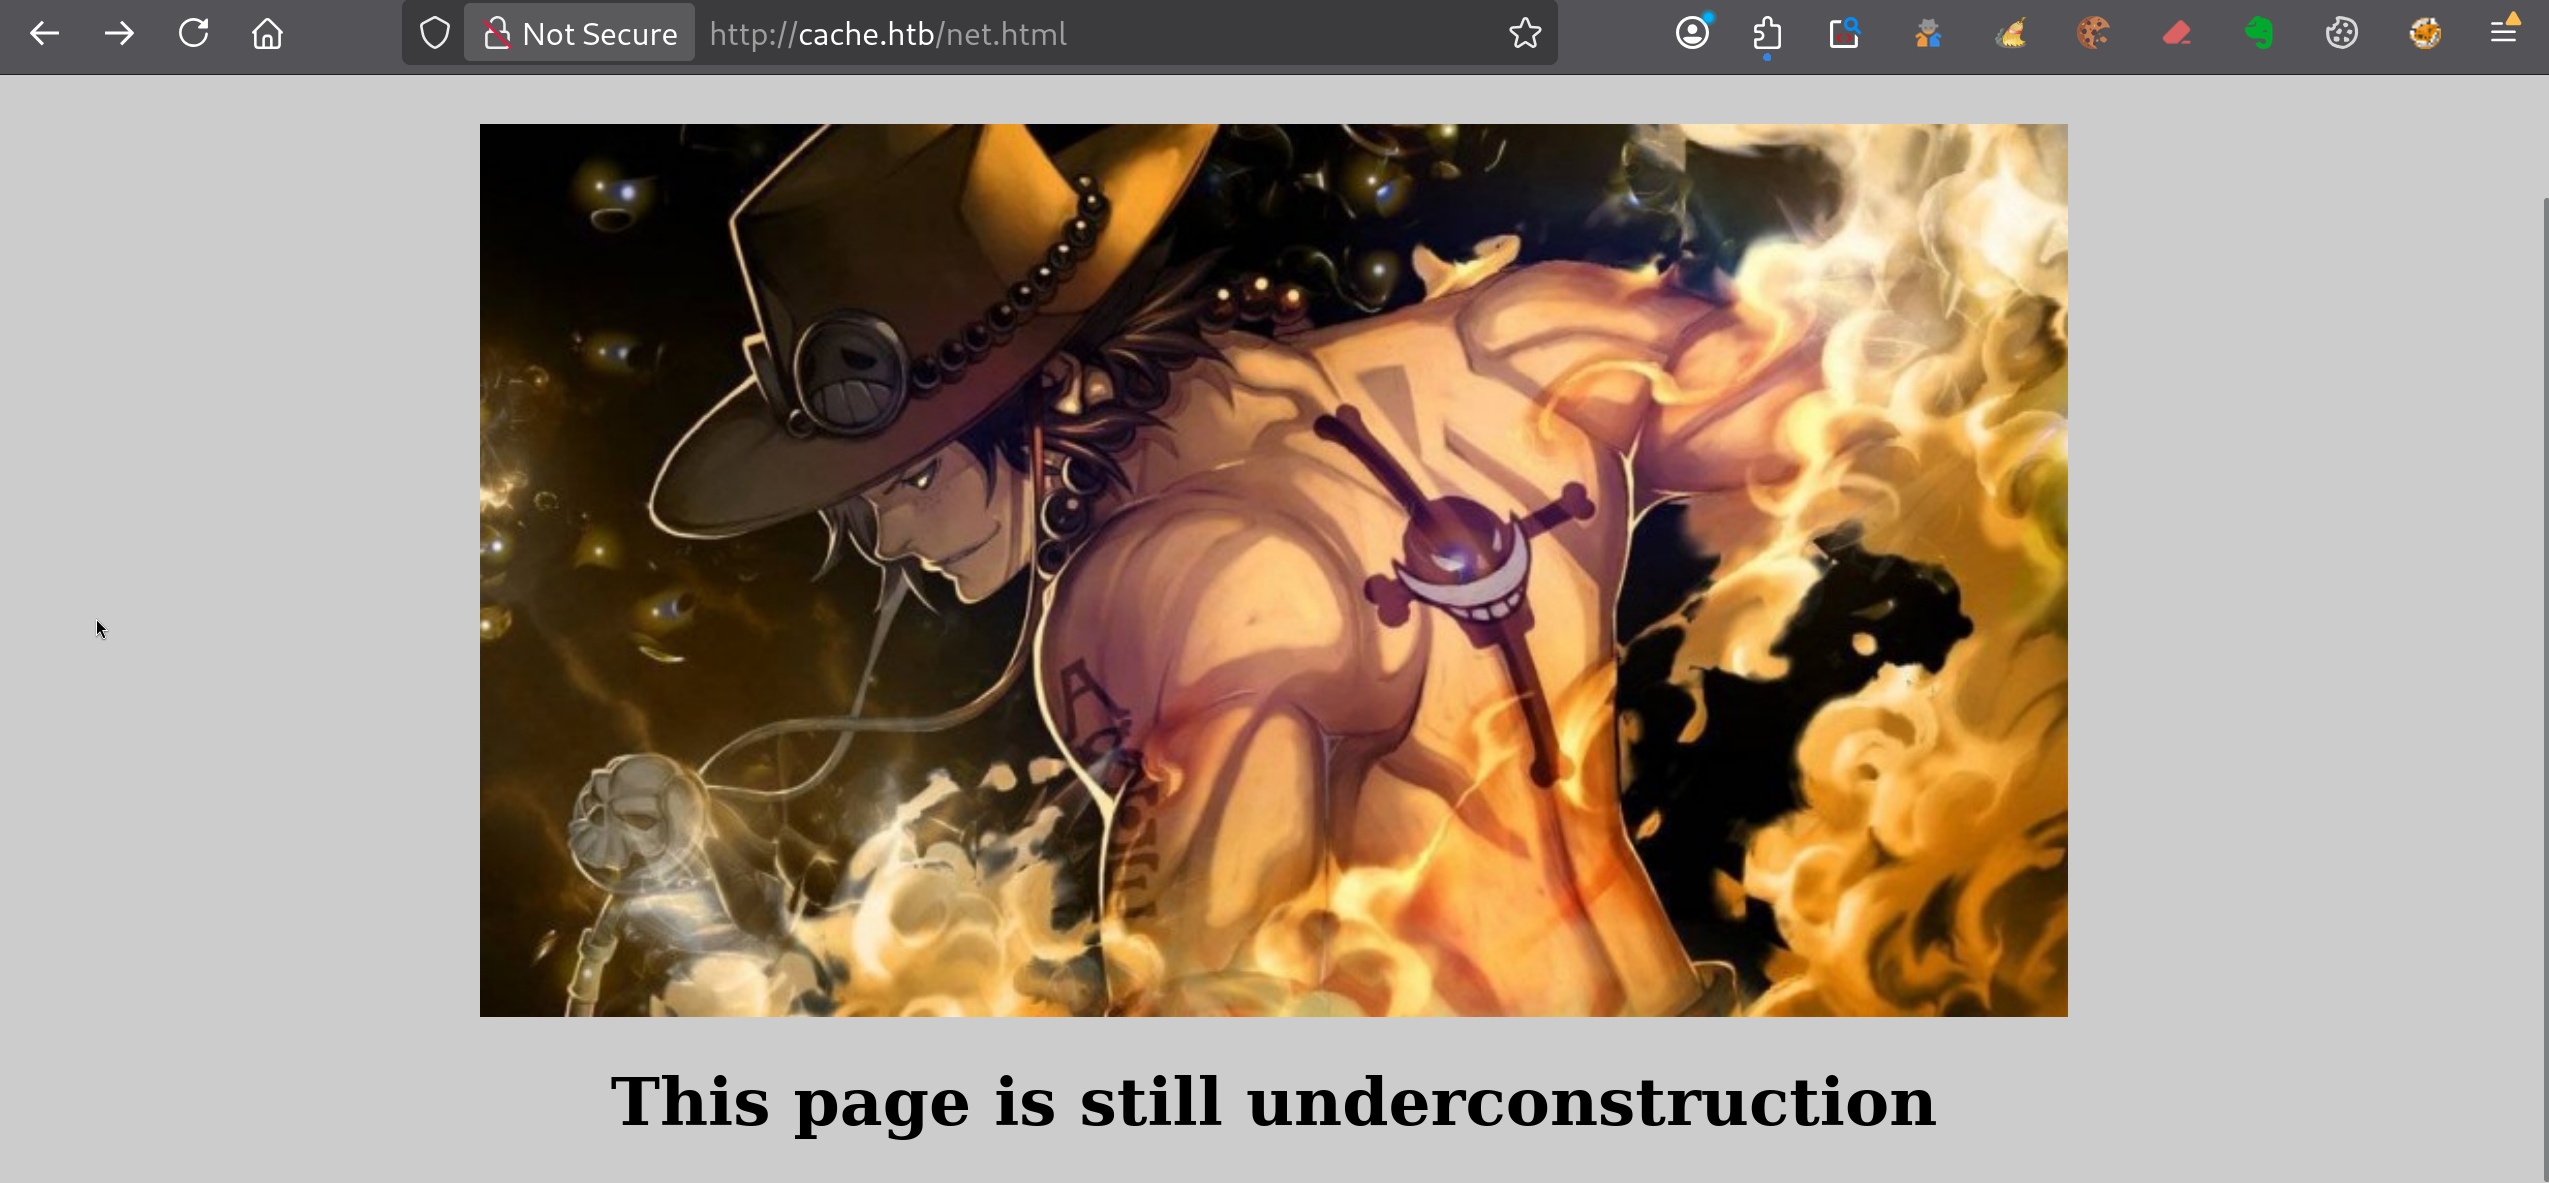
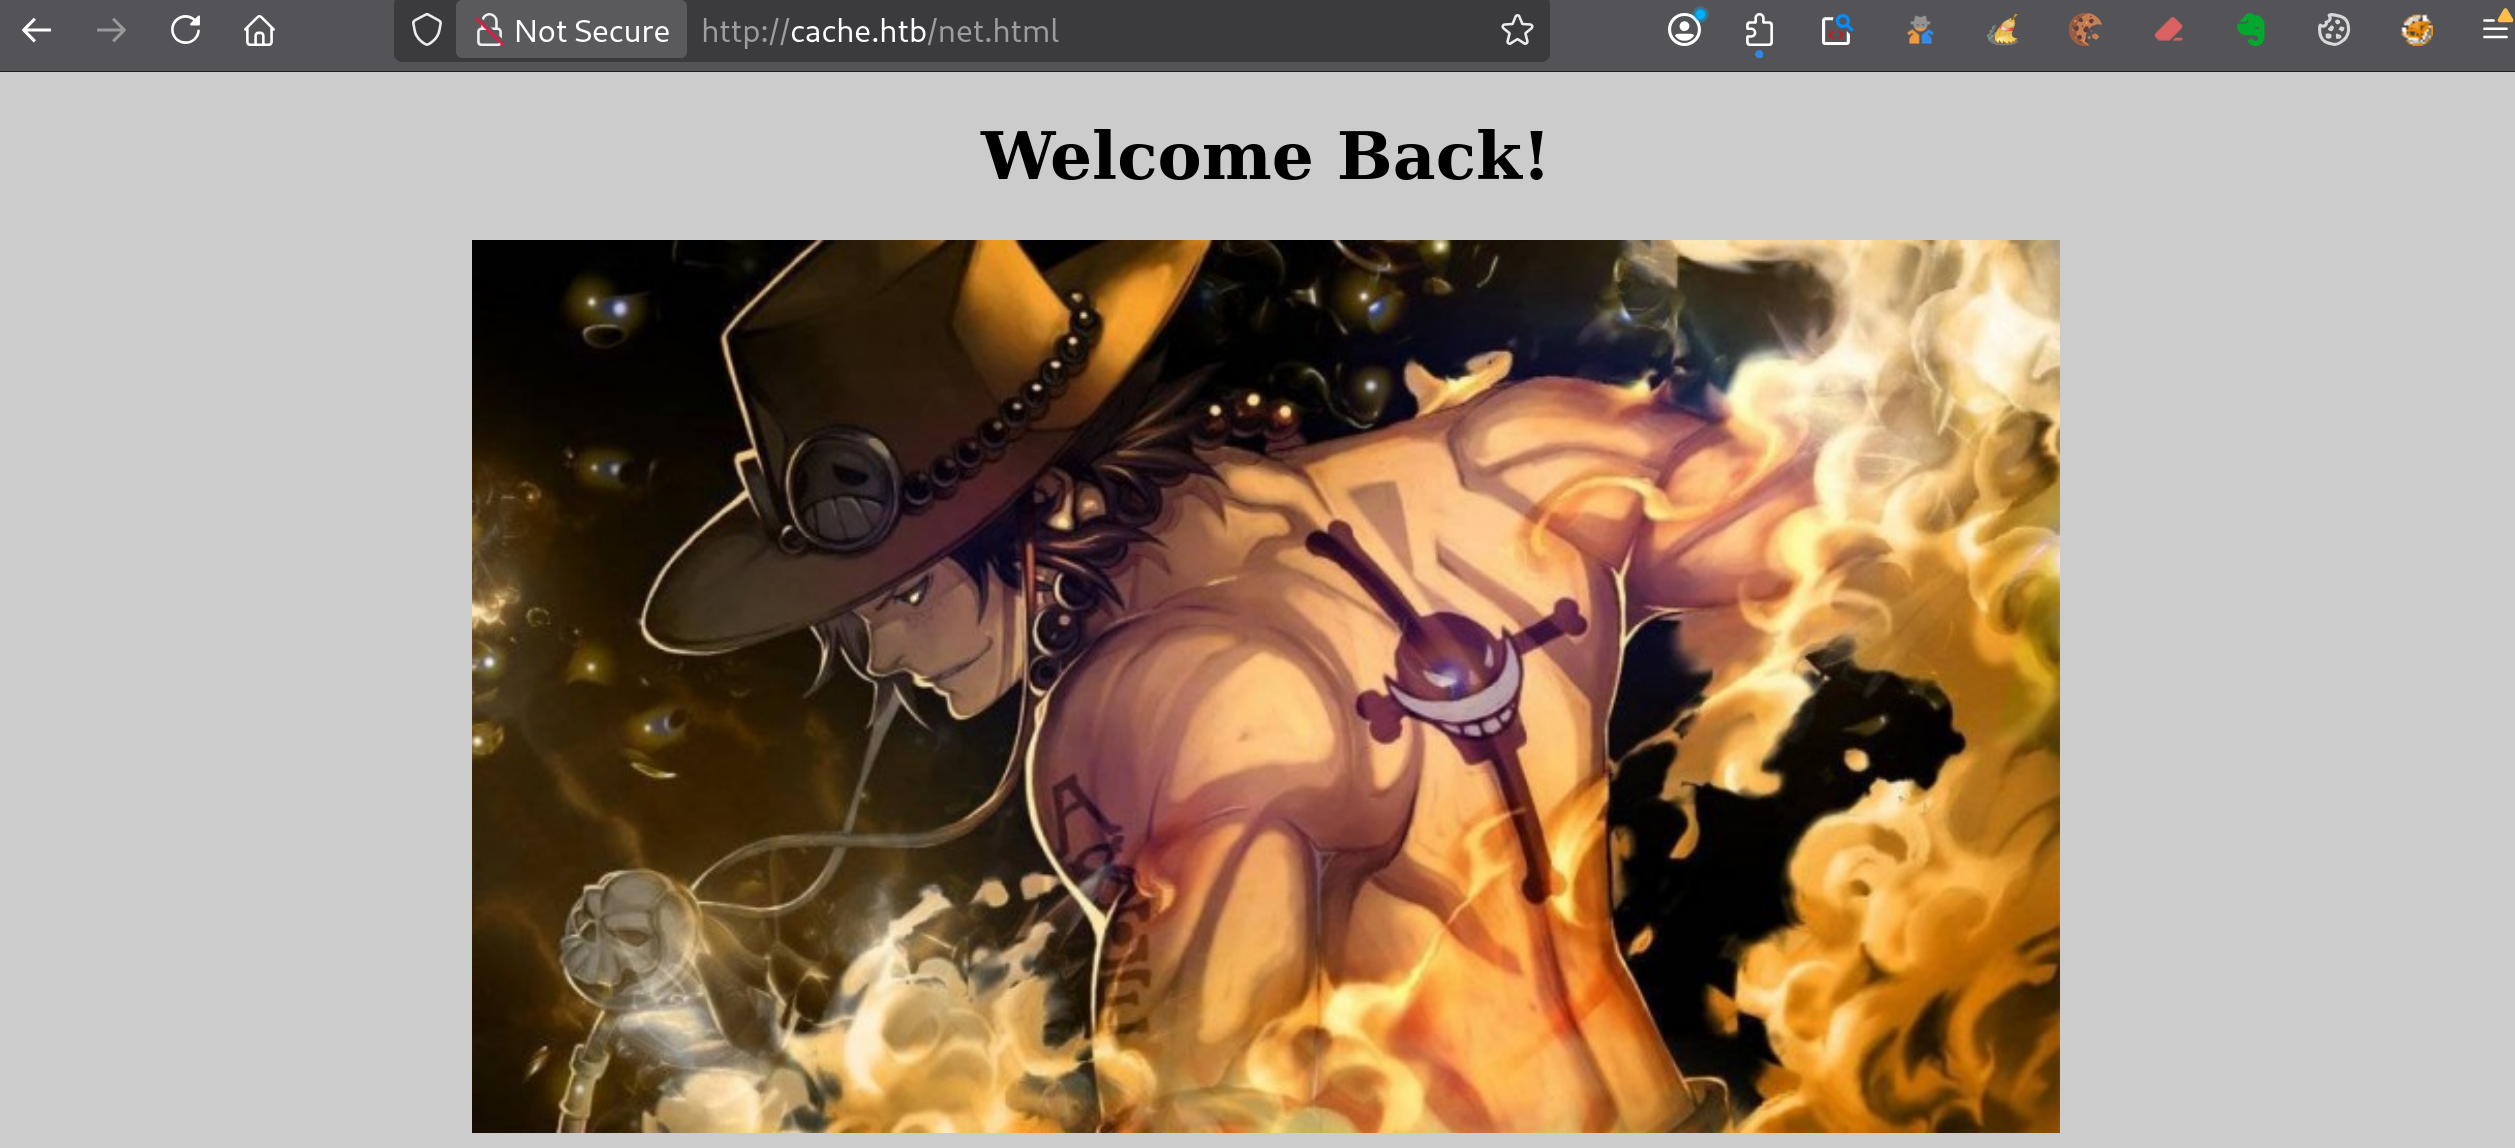
cache.htb rédation prise pied gébut

diff --git a/content/writeups/cache/index.md b/content/writeups/cache/index.md
@@ -461,9 +461,106 @@ Si aucun vhost distinct n’est identifié, ce fichier confirme l’absence de r
 
 ## Prise pied
 
-- Vecteur d'entrée confirmé (faille, creds, LFI/RFI, upload…).
-- Payloads utilisés (extraits pertinents).
-- Stabilisation du shell (pty, rlwrap, tmux…), preuve d'accès (`id`, `whoami`, `hostname`).
+### Exploration de l’application web `cache.htb`
+
+À première vue, le site semble offrir très peu de points d’attaque directement exploitables.
+
+L’application web est accessible à l’adresse suivante :
+
+```text
+http://cache.htb
+```
+
+![Page d’accueil de l’application web cache.htb](cache-htb-home-page.png)
+
+La page d’accueil présente un site personnel dont le titre déroulant affiche explicitement :
+
+```text
+cache.htb
+```
+
+Le menu de navigation permet d’accéder à plusieurs pages :
+
+```text
+index.html
+author.html
+net.html
+login.html
+```
+
+La page `author.html` permet d’identifier le prénom de l’auteur du site :
+
+```text
+Ash
+```
+
+Elle mentionne également explicitement une autre application réalisée par l’auteur, appelée :
+
+```text
+HMS
+```
+
+![Mention de l’application HMS dans la page de présentation de l’auteur](cache-htb-author-html-hms.png)
+
+La page `login.html` contient une interface de connexion demandant un nom d’utilisateur et un mot de passe :
+
+![Page de connexion de l’application cache.htb](cache-htb-login-html.png)
+
+Une tentative avec des identifiants quelconques ne semble provoquer aucune requête d’authentification vers le serveur. Nous allons donc essayer de comprendre plus précisément le fonctionnement de cette interface.
+
+### Analyse de la page `login.html`
+
+Pour comprendre le fonctionnement du formulaire de connexion, tu peux commencer par afficher le code source de la page `login.html`.
+
+![Code source de la page de connexion de cache.htb](cache-htb-login-html-source.png)
+
+Le formulaire ne transmet pas directement les identifiants à une page d’authentification côté serveur. Lors de sa soumission, il appelle une fonction JavaScript définie dans le fichier :
+
+```text
+jquery/functionality.js
+```
+
+L’examen de ce fichier montre que la vérification des identifiants est réalisée directement dans le navigateur.
+
+![Recherche dans le fichier functionality.js](cache-htb-query-functionality-js-source.png)
+
+L’examen du script montre que la vérification des identifiants est réalisée directement dans le navigateur. Le code compare les valeurs saisies dans le formulaire à des identifiants inscrits en clair :
+
+```
+ash:H@v3_fun
+```
+
+Tu peux alors utiliser ces identifiants dans le formulaire de connexion. L’authentification réussit et redirige vers la page suivante :
+
+![Message « Welcome Back » affiché après la connexion à cache.htb](cache-htb-net-html_welcome-back.png)
+
+
+
+Cette page est encore en construction et ne fournit pas immédiatement de nouvelle fonctionnalité exploitable. Les identifiants découverts doivent néanmoins être conservés, car ils pourront correspondre à un autre service ou à un compte local présent sur la machine
+
+### Identification du virtual host `hms.htb`
+
+La mention de l’application **HMS** laisse penser qu’une seconde application pourrait être hébergée sur la même machine. Comme le site principal utilise le nom `cache.htb`, tu peux raisonnablement tester le nom suivant :
+
+```text
+hms.htb
+```
+
+Pour vérifier cette hypothèse, tu ajoutes ce nom dans le fichier `/etc/hosts` en l’associant à l’adresse IP de la cible :
+
+```text
+10.129.x.x cache.htb hms.htb
+```
+
+Tu peux ensuite ouvrir le nouveau virtual host dans le navigateur :
+
+```text
+http://hms.htb
+```
+
+La page affichée correspond à une interface de connexion **OpenEMR**.
+
+![Page de connexion OpenEMR sur hms.htb](hms-htb-openemr-login.png)
 
 ---
 
